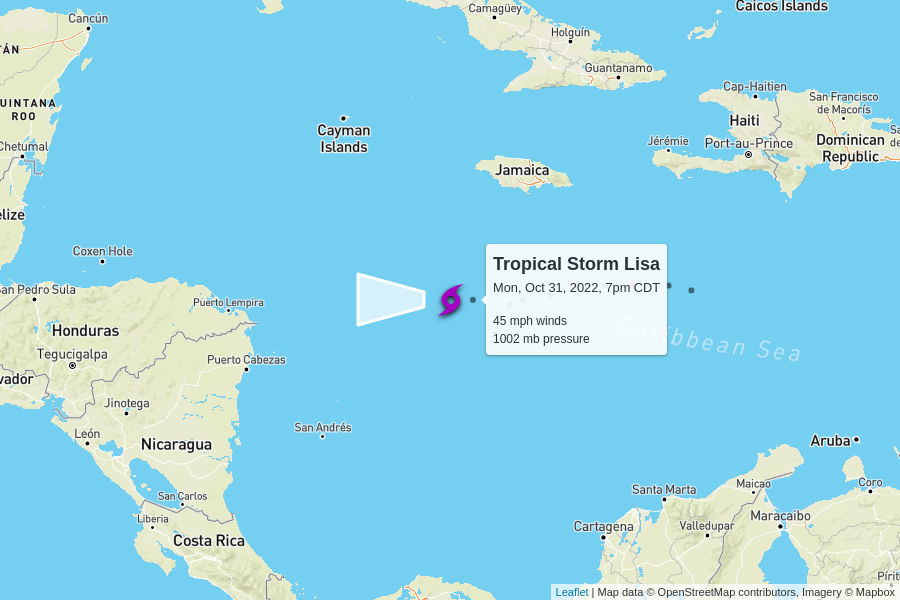
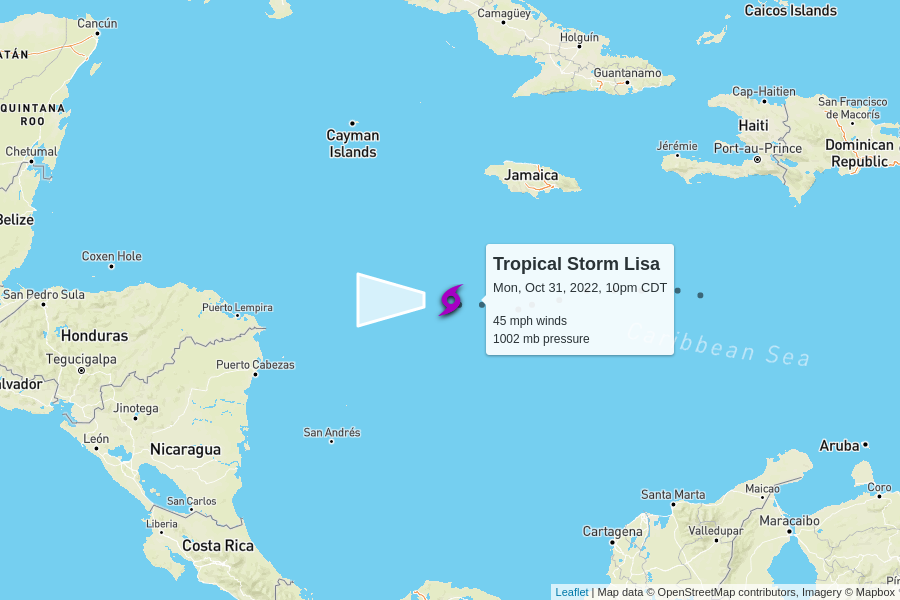
automatic update

diff --git a/docs/index.html b/docs/index.html
@@ -100,7 +100,7 @@
         <td colspan="6" class="storm category-0" >
           <h2>
             Tropical Storm Lisa
-            <p class="updated">last updated <span data-time>2022-11-01T00:00:00.000Z</span></p>
+            <p class="updated">last updated <span data-time>2022-11-01T03:00:00.000Z</span></p>
           </h2>
         </td>
       </tr>
@@ -118,7 +118,7 @@
         <td>45 mph</td>
         <td>1002 mb</td>
         <td>
-          14 mph to the west
+          12 mph to the west
           <br/>
           <span style="display: inline-block; font-size: 1.5em; transform: rotate(270deg);">↑</span>
         </td>
